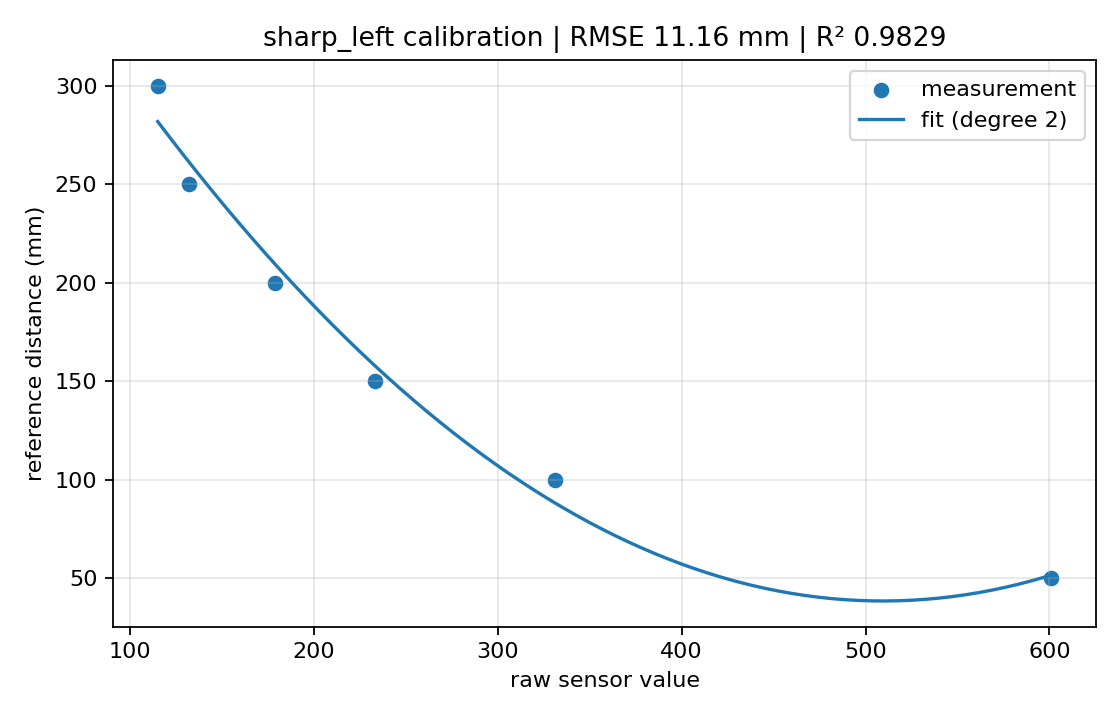
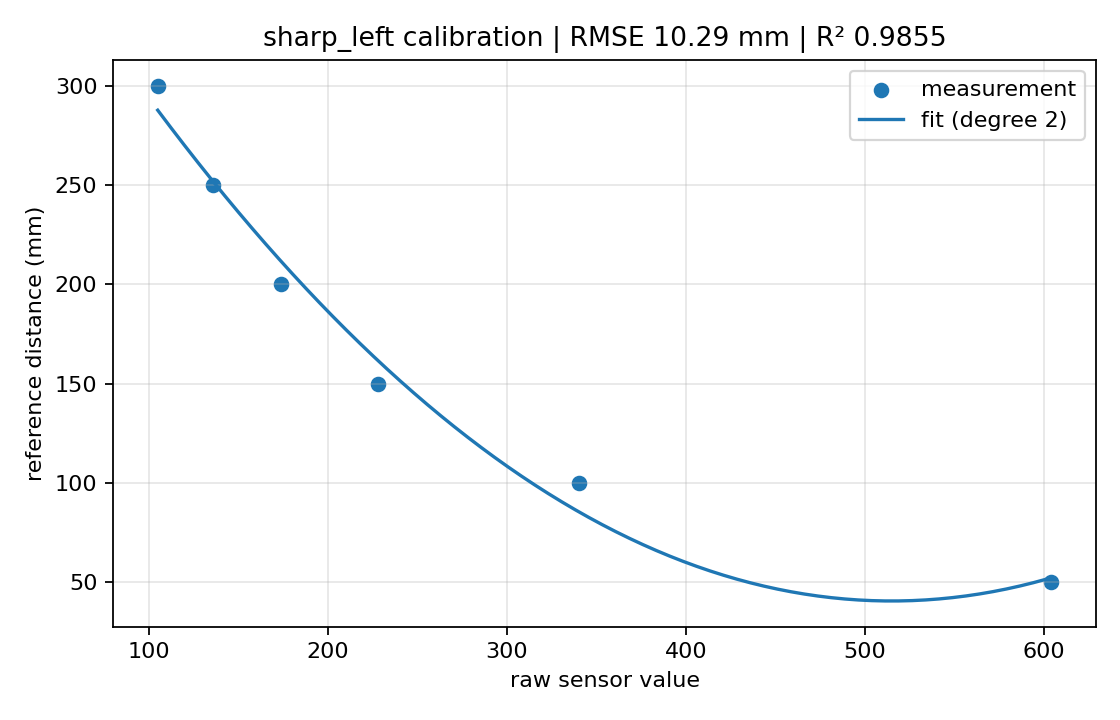
calibrate

diff --git a/src/slam_report.py b/src/slam_report.py
@@ -148,83 +148,108 @@ def save_report(map_file):
     data = json.loads(path.read_text(encoding='utf-8'))
     telemetry_file = path.with_name((path.stem[:-4] if path.stem.endswith('_map') else path.stem) + '.json')
     duration_label = 'Elapsed: unavailable'
+    duration = None
+    records = []
     if telemetry_file.is_file():
-        duration = json.loads(telemetry_file.read_text(encoding='utf-8')).get('duration_sec')
+        telemetry = json.loads(telemetry_file.read_text(encoding='utf-8'))
+        records = telemetry.get('records', [])
+        duration = telemetry.get('duration_sec')
         if isinstance(duration, (int, float)) and math.isfinite(duration) and duration >= 0:
             minutes, seconds = divmod(round(duration), 60)
             duration_label = 'Elapsed: {:.2f} min ({} min {:02d} s)'.format(duration / 60, minutes, seconds)
     size = data['cell_size_m']
-    steps = action_steps(data)
+    start_cell = data.get('start_cell', [0, 0])
+    end_cell = data.get('cell', start_cell)
+    moves = [event for event in data['events'] if event['type'] == 'move']
+    planned_cells = [start_cell] + [event['to'] for event in moves]
+    planned_xy = [(column * size, row * size) for row, column in planned_cells]
+    start_pose = data.get('start_pose', [start_cell[0] * size, start_cell[1] * size, 0])
+    actual_xy = []
+    for record in records:
+        pos_x, pos_y = record.get('pos_x'), record.get('pos_y')
+        if (isinstance(pos_x, (int, float)) and isinstance(pos_y, (int, float))
+                and math.isfinite(pos_x) and math.isfinite(pos_y)):
+            # Telemetry is zeroed at startup; map poses include the start-cell offset.
+            actual_xy.append((start_pose[1] + pos_y, start_pose[0] + pos_x))
+    finish = next((event for event in reversed(data['events']) if event['type'] == 'finish'), None)
+    last_recorded_at = records[-1].get('timestamp') if records else None
+    actual_incomplete = (finish is not None and isinstance(last_recorded_at, (int, float))
+                         and finish['timestamp'] - last_recorded_at > 1.0)
+    if actual_incomplete and isinstance(duration, (int, float)):
+        full_duration = duration + finish['timestamp'] - last_recorded_at
+        minutes, seconds = divmod(round(full_duration), 60)
+        duration_label = 'Elapsed: {:.2f} min ({} min {:02d} s)'.format(
+            full_duration / 60, minutes, seconds)
+
     figure, axis = plt.subplots(figsize=(9, 9))
     for row, column in data['visited']:
+        fill = '#e5f4e8' if [row, column] == start_cell else (
+            '#fbe9eb' if [row, column] == end_cell else '#f5f8fa')
         axis.add_patch(plt.Rectangle(((column - 0.5) * size, (row - 0.5) * size), size, size,
-                                     facecolor='#e4f1f8', edgecolor='#b6c5d0', linewidth=0.5))
+                                     facecolor=fill, edgecolor='#d6dee3', linewidth=0.5))
     for edge in data['edges']:
         if not edge['wall']:
             continue
         (row1, column1), (row2, column2) = edge['cells']
         row, column = (row1 + row2) * size / 2, (column1 + column2) * size / 2
         if row1 != row2:
-            axis.plot([column - size / 2, column + size / 2], [row, row], color='#263747', linewidth=3)
+            axis.plot([column - size / 2, column + size / 2], [row, row],
+                      color='#20252b', linewidth=3, zorder=4)
         else:
-            axis.plot([column, column], [row - size / 2, row + size / 2], color='#263747', linewidth=3)
-    trajectory = data['trajectory']
-    if trajectory:
-        axis.plot([p['pose'][1] for p in trajectory], [p['pose'][0] for p in trajectory],
-                  'o-', color='#1689c1', markersize=3, linewidth=1, label='Estimated trajectory')
-    start = data.get('start_pose', [0, 0, 0])
-    axis.scatter([start[1]], [start[0]], marker='s', color='#26a269', s=90,
-                 label='Start (row, column) {}'.format(tuple(data.get('start_cell', [0, 0]))), zorder=5)
-    axis.scatter([data['pose'][1]], [data['pose'][0]], marker='x', color='#e33b35', s=90,
-                 label='Last estimated pose', zorder=6)
+            axis.plot([column, column], [row - size / 2, row + size / 2],
+                      color='#20252b', linewidth=3, zorder=4)
+
+    axis.plot([point[0] for point in planned_xy], [point[1] for point in planned_xy],
+              '--o', color='#087cf5', markersize=3, linewidth=1.7,
+              label='Planned DFS route (cell centres)', zorder=5)
+    if actual_xy:
+        axis.plot([point[0] for point in actual_xy], [point[1] for point in actual_xy],
+                  color='#ff4048', linewidth=1.5, label='Actual odometry', zorder=6)
+        axis.scatter(*actual_xy[-1], marker='*', color='#e02e39', edgecolor='#20252b',
+                     s=120, label='Last recorded odometry' if actual_incomplete else 'Actual end',
+                     zorder=9)
+    axis.scatter(start_cell[1] * size, start_cell[0] * size, marker='o',
+                 facecolor='#30b45a', edgecolor='#174d2b', s=100,
+                 label='Start {}'.format(tuple(start_cell)), zorder=10)
+    axis.scatter(end_cell[1] * size, end_cell[0] * size, marker='x',
+                 color='#087cf5', s=90, linewidth=2, label='Final grid cell', zorder=8)
+
+    # Sparse arrows and step numbers keep long DFS routes legible.
+    label_stride = max(1, math.ceil(len(moves) / 12))
+    for step, (before, after) in enumerate(zip(planned_xy, planned_xy[1:]), 1):
+        if step != 1 and step % label_stride and step != len(moves):
+            continue
+        dx, dy = after[0] - before[0], after[1] - before[1]
+        axis.annotate('', xy=(before[0] + 0.76 * dx, before[1] + 0.76 * dy),
+                      xytext=(before[0] + 0.42 * dx, before[1] + 0.42 * dy),
+                      arrowprops=dict(arrowstyle='-|>', color='#344054', lw=1.4),
+                      zorder=7)
+        axis.annotate(str(step), xy=after, xytext=(5, 5), textcoords='offset points',
+                      fontsize=8, color='#075cad', zorder=8,
+                      bbox=dict(boxstyle='round,pad=0.12', facecolor='white',
+                                edgecolor='none', alpha=0.85))
+
     if 'map_info' in data:
         axis.set_xlim(-size / 2, (data['map_info']['columns'] - 0.5) * size)
         axis.set_ylim(-size / 2, (data['map_info']['rows'] - 0.5) * size)
-        # Plot grid lines at cell boundaries, matching wall coordinates.
-        axis.set_xticks([(i - 0.5) * size for i in range(data['map_info']['columns'] + 1)])
-        axis.set_yticks([(i - 0.5) * size for i in range(data['map_info']['rows'] + 1)])
-        # Major ticks keep the boundary grid; minor ticks label cell indices.
-        axis.set_xticklabels([])
-        axis.set_yticklabels([])
-        axis.set_xticks([column * size for column in range(data['map_info']['columns'])], minor=True)
-        axis.set_yticks([row * size for row in range(data['map_info']['rows'])], minor=True)
-        axis.set_xticklabels([str(column) for column in range(data['map_info']['columns'])], minor=True)
-        axis.set_yticklabels([str(row) for row in range(data['map_info']['rows'])], minor=True)
+        axis.set_xticks([column * size for column in range(data['map_info']['columns'])])
+        axis.set_yticks([row * size for row in range(data['map_info']['rows'])])
+        axis.set_xticklabels(['Col {}'.format(column) for column in range(data['map_info']['columns'])])
+        axis.set_yticklabels(['Row {}'.format(row) for row in range(data['map_info']['rows'])])
+        axis.set_xticks([(i - 0.5) * size for i in range(data['map_info']['columns'] + 1)], minor=True)
+        axis.set_yticks([(i - 0.5) * size for i in range(data['map_info']['rows'] + 1)], minor=True)
         axis.tick_params(which='minor', length=0)
         axis.set_axisbelow(True)
-    # Cell coordinates are indices (row, column), separate from metre axes.
-    if 'map_info' in data:
-        cells = ((row, column) for row in range(data['map_info']['rows'])
-                 for column in range(data['map_info']['columns']))
-    else:
-        cells = (tuple(cell) for cell in data['visited'])
-    for row, column in cells:
-        axis.text((column - 0.40) * size, (row - 0.40) * size, '({},{})'.format(row, column),
-                  ha='left', va='bottom', fontsize=10, color='#4b5563', zorder=9,
-                  bbox=dict(boxstyle='round,pad=0.15', facecolor='white',
-                            edgecolor='none', alpha=0.85))
-    labels = {}
-    for step in steps:
-        if not step['completed']:
-            continue
-        labels.setdefault(tuple(step['to']), []).append(str(step['step']))
-    for (row, column), numbers in labels.items():
-        # One clear badge per step, stacked within its cell. Offset from the
-        # estimated route and start/end markers rather than printing over them.
-        spacing = min(0.19, 0.6 / max(1, len(numbers))) * size
-        for index, number in enumerate(numbers):
-            vertical = ((len(numbers) - 1) / 2 - index) * spacing
-            axis.text((column + 0.18) * size, row * size + vertical, number,
-                      ha='center', va='center', fontsize=13, color='#124c72', weight='bold',
-                      zorder=10, bbox=dict(boxstyle='round,pad=0.22', facecolor='white',
-                                          edgecolor='#87b4d0', linewidth=1))
     axis.set_aspect('equal')
-    axis.set_xlabel('Column - increases right')
-    axis.set_ylabel('Row - increases upward')
-    axis.set_title('Explored map | {} | {} cells\n{}\nCell coordinates = (row, column) | Numbered badges = movement steps (top to bottom)'.format(
+    axis.set_xlabel('Column (increases right)')
+    axis.set_ylabel('Row (increases upward)')
+    axis.set_title('RoboMaster EP: trajectory overlay | {} | {} cells\n{}'.format(
         data['status'], len(data['visited']), duration_label))
-    axis.legend(loc='upper center', bbox_to_anchor=(0.5, -0.13), ncol=3, fontsize=9)
-    axis.grid(which='major', color='#b6c5d0', linewidth=0.7, alpha=0.65)
+    axis.legend(loc='upper right', fontsize=8, framealpha=0.95)
+    axis.grid(which='minor', color='#c7d0d8', linewidth=0.7, alpha=0.7)
+    if actual_incomplete:
+        axis.text(0.5, -0.09, 'Odometry trace ends before the exploration finishes (telemetry buffer full).',
+                  transform=axis.transAxes, ha='center', fontsize=9, color='#9a3412')
 
     figure.tight_layout()
     actions = save_actions_html(data, path.parent / 'actions.html')

diff --git a/README.md b/README.md
@@ -128,7 +128,7 @@ gimbal:
 
 | ไฟล์ | เนื้อหา |
 | --- | --- |
-| `map.png` | แผนที่ พิกัด `(row, column)` หมายเลข step และเวลารวมเป็นนาที/วินาที |
+| `map.png` | แผนที่กำแพง เส้นประสีน้ำเงินตามเส้นทาง DFS ระดับช่อง เส้นแดงจาก odometry จุดเริ่ม/จุดสุดท้าย หมายเลข step บางจุด และเวลารวม |
 | `actions.html` | รายการก้าว การเดิน เลี้ยว สแกน และรายละเอียดเซนเซอร์ เปิดใน browser ได้ |
 | `runN_TIMESTAMP_map.json` | แผนที่ เหตุการณ์ เส้นทาง และสถานะการสำรวจ |
 | `runN_TIMESTAMP.json` | ข้อมูลเซนเซอร์และระยะเวลารัน |
@@ -136,7 +136,7 @@ gimbal:
 | `events.csv` | เหตุการณ์ระหว่างสำรวจ พร้อมรายละเอียดแต่ละ action |
 | `runN_TIMESTAMP_plot.png` | กราฟวิเคราะห์เซนเซอร์ |
 
-เวลาบน `map.png` มาจาก `duration_sec` ของ telemetry ของรอบนั้น รวมเวลาตั้งแต่เริ่ม recorder ไม่ใช่เฉพาะเวลาที่หุ่นเดิน บันทึกทั้ง JSON และ CSV เพื่อให้อ่าน log ในโปรแกรมและตารางได้ โดยไม่สร้างสำเนาแผนที่ใน `data/`
+เวลาบน `map.png` มาจาก `duration_sec` ของ telemetry ของรอบนั้น รวมเวลาตั้งแต่เริ่ม recorder ไม่ใช่เฉพาะเวลาที่หุ่นเดิน หาก telemetry เต็มก่อนจบงาน จะใช้เวลาเหตุการณ์จบงานเติมส่วนที่ขาด และระบุว่าเส้น odometry ไม่ครบ บันทึกทั้ง JSON และ CSV เพื่อให้อ่าน log ในโปรแกรมและตารางได้ โดยไม่สร้างสำเนาแผนที่ใน `data/`
 
 งานทดสอบเดิน/เลี้ยว/ชุดคำสั่งบันทึก telemetry และกราฟ ส่วนเมนูดูเซนเซอร์สดกับทดสอบ Gimbal ไม่บันทึกผล เมนู 7 ใช้วิเคราะห์ run ที่บันทึกไว้
 
